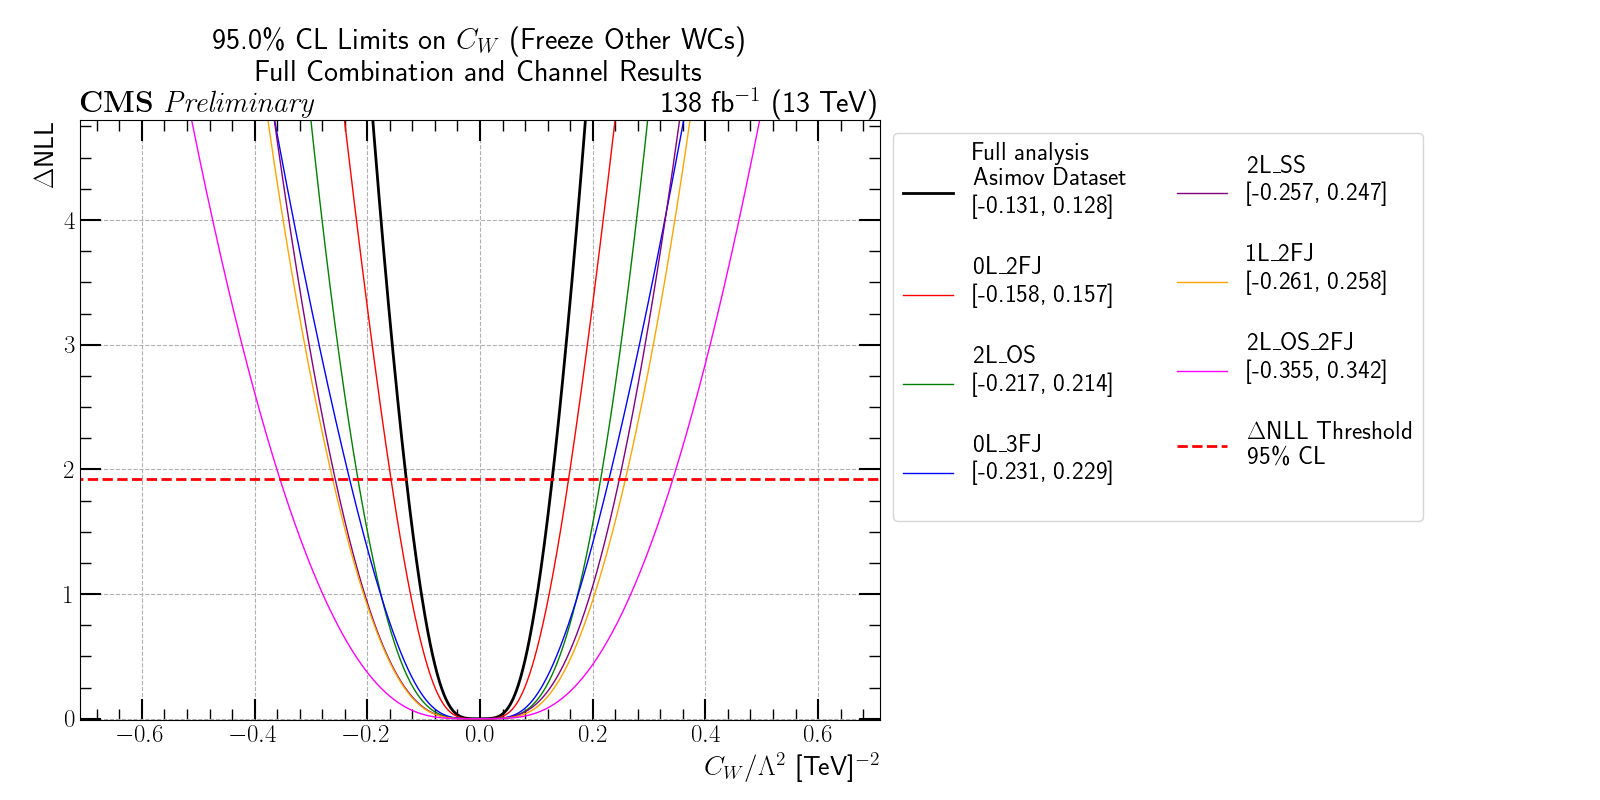
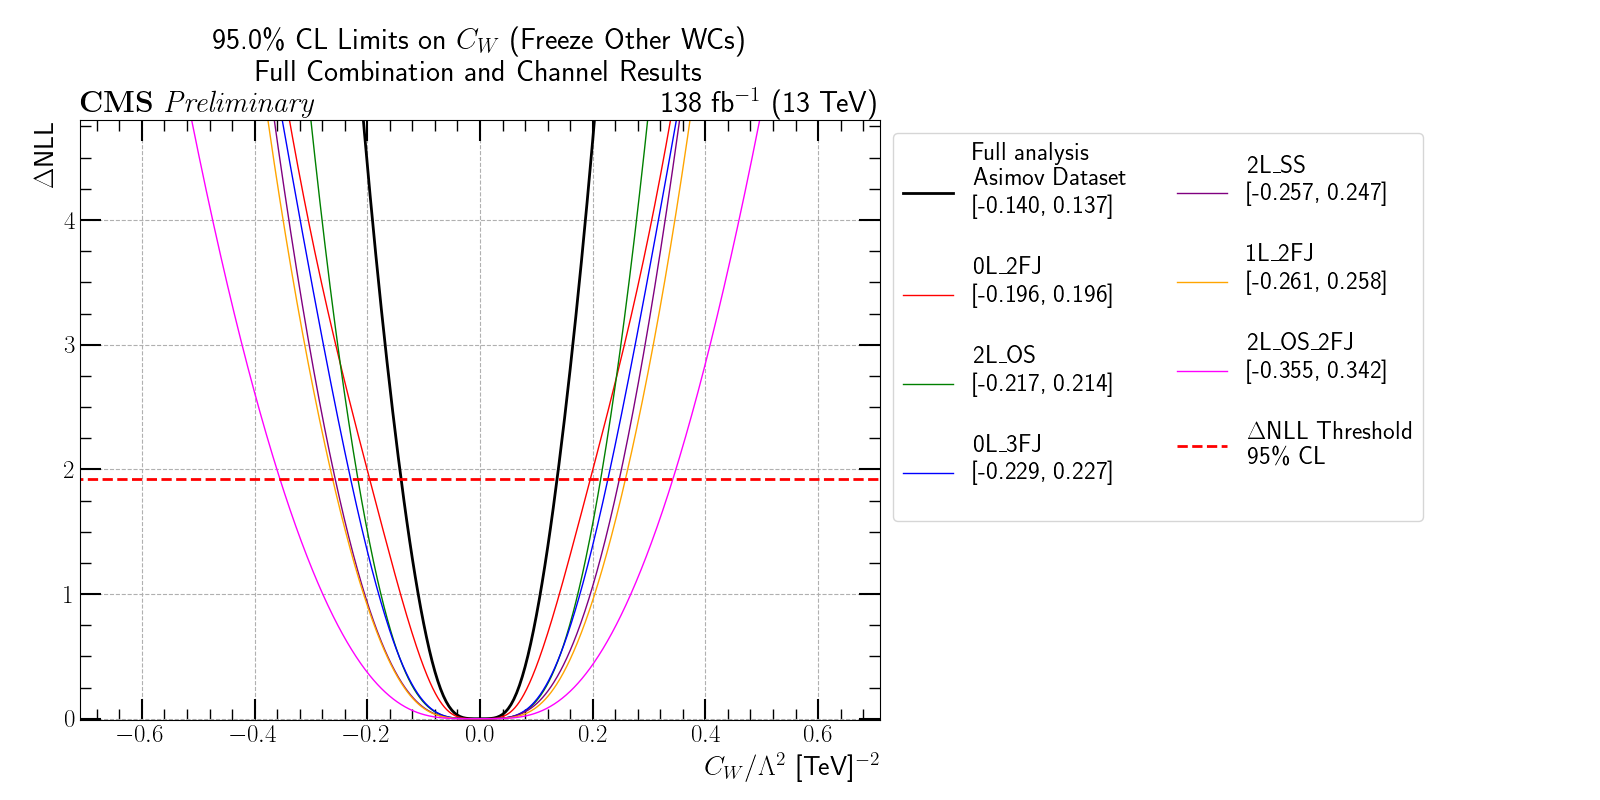
A few plots. Updated 2L_OS_2FJ to v5.

diff --git a/EFTAnalysisFitting/scripts/CONFIG_VERSIONS.py b/EFTAnalysisFitting/scripts/CONFIG_VERSIONS.py
@@ -47,7 +47,8 @@ versions_dict = {
     #'2Lepton_OS': {'v': 16, 'lumi': 'Run2', 'EFT_type': 'points', 'EFT_ops': ['cW', 'cHbox', 'cHDD', 'cHl3', 'cHq1', 'cHq3', 'cHW', 'cHWB', 'cll1', 'cHB', 'cHu', 'cHd']}, # dim6 complete, with all systematics. Double count bug fixed. wtag sf to be updated (include Z)
     '2Lepton_OS': {'v': 17, 'lumi': 'Run2', 'EFT_type': 'points', 'EFT_ops': ['cW', 'cHbox', 'cHDD', 'cHl3', 'cHq1', 'cHq3', 'cHW', 'cHWB', 'cll1', 'cHB', 'cHu', 'cHd']}, # wtag sf updated
     #'2Lepton_OS_2FJ': {'v': 2, 'lumi': 'Run2', 'EFT_type': 'points', 'EFT_ops': ['cW', 'cHbox', 'cHDD', 'cHl3', 'cHq1', 'cHq3', 'cHW', 'cHWB', 'cll1', 'cHB', 'cHu', 'cHd']}, # dim6 complete / first official pass, with all systematics.
-    '2Lepton_OS_2FJ': {'v': 3, 'lumi': 'Run2', 'EFT_type': 'points', 'EFT_ops': ['cW', 'cHbox', 'cHDD', 'cHl3', 'cHq1', 'cHq3', 'cHW', 'cHWB', 'cll1', 'cHB', 'cHu', 'cHd']}, # dim6 complete. everything in place except wtag sf
+    #'2Lepton_OS_2FJ': {'v': 3, 'lumi': 'Run2', 'EFT_type': 'points', 'EFT_ops': ['cW', 'cHbox', 'cHDD', 'cHl3', 'cHq1', 'cHq3', 'cHW', 'cHWB', 'cll1', 'cHB', 'cHu', 'cHd']}, # dim6 complete. everything in place except wtag sf
+    '2Lepton_OS_2FJ': {'v': 5, 'lumi': 'Run2', 'EFT_type': 'points', 'EFT_ops': ['cW', 'cHbox', 'cHDD', 'cHl3', 'cHq1', 'cHq3', 'cHW', 'cHWB', 'cll1', 'cHB', 'cHu', 'cHd']}, # wtag sf added. switched from 2018 scaled to Run2 lumi to using all 3 years.
     # '2Lepton_SS': {'v': 1, 'lumi': '2018', 'EFT_type': 'params', 'EFT_ops': ['cW']},
     # '2Lepton_SS': {'v': 2, 'lumi': '2018', 'EFT_type': 'params', 'EFT_ops': ['cW', 'cHbox', 'cHDD', 'cHl3', 'cHq1', 'cHq3', 'cHW', 'cHWB', 'cll1']}, # only WWW
     # '2Lepton_SS': {'v': 3, 'lumi': '2018', 'EFT_type': 'params', 'EFT_ops': ['cW']}, # VVV, but only cW -- first batch

diff --git a/EFTAnalysisFitting/scripts/1D_scan/summary_NLL_limits_plot.py b/EFTAnalysisFitting/scripts/1D_scan/summary_NLL_limits_plot.py
@@ -252,7 +252,7 @@ def run_NLL_plot_analysis_channel(WC, datacard_dict, CL, plot_stat_only, SignalI
 
 if __name__=='__main__':
     # FIX ME! make these command line args
-    #WCs = ['cW'] # testing
+    WCs = ['cW'] # testing
     #WCs = ['cW', 'sm'] # testing
     #WCs = ['cW', 'cHB'] # testing
     #WCs = ['cW', 'cHbox']
@@ -262,7 +262,7 @@ if __name__=='__main__':
     #WCs = WC_ALL
     ###WCs = ['sm'] # sm debug
     # all, with sm
-    WCs = WC_ALL + ['sm']
+    ##WCs = WC_ALL + ['sm']
     # Asimov
     SignalInject=False
     InjectValue = 0.0
